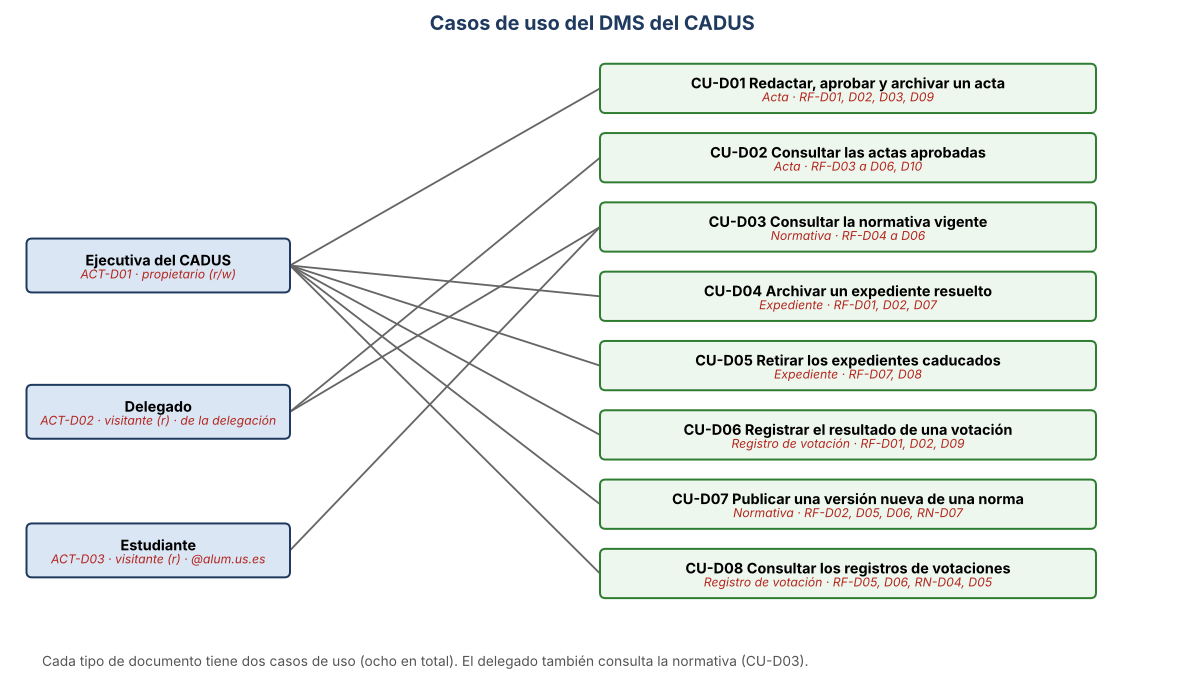
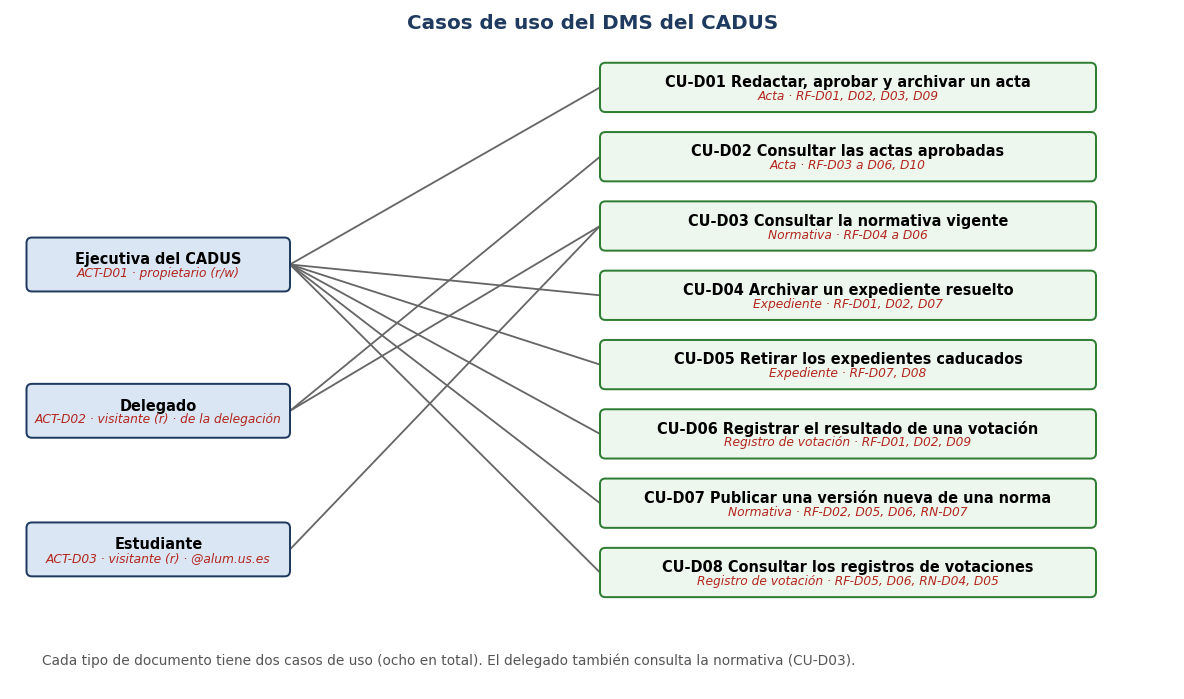
docs(dms): UML de diseño con los estereotipos de la diapositiva 3 del Lab 4 (Site, Folder, Document, Role, Permission y Filter)
El diseño usaba <<Library>> y <<Group>>; ahora cada carpeta tiene su <<Filter>> de metadatos (vista plana), los grupos son
<<Role>> y sus permisos Read/write y Read son <<Permission>>.

diff --git a/scripts/dms/diagramas_dms.py b/scripts/dms/diagramas_dms.py
@@ -38,47 +38,61 @@ def analisis():
 
 
 def diseno():
-    fig, ax = lienzo(1900, 950)
+    """UML de diseño con los estereotipos de la diapositiva 3 del Lab 4: <<Site>>, <<Folder>>, <<Document>>, <<Role>>, <<Permission>>
+    y <<Filter>> (la búsqueda del análisis pasa a ser un filtro de metadatos sobre una vista plana)."""
+    fig, ax = lienzo(1900, 1250)
     ax.text(950, 24, "UML de diseño del DMS en SharePoint — del análisis al diseño", ha="center", fontsize=13, fontweight="bold", color=AZUL)
     # sitios
-    sitios = [(40, "CADUS Documentación pública", "cadus-documentacion-publica · RF-D01"),
-              (700, "CADUS Órganos de gobierno", "cadus-organos-de-gobierno · RF-D01"),
-              (1440, "CADUS Atención al estudiante", "cadus-atencion-al-estudiante · RF-D01 · RN-D02")]
+    sitios = [(40, "Documentación pública", "cadus-documentacion-publica · RF-D01"),
+              (700, "Órganos de gobierno", "cadus-organos-de-gobierno · RF-D01"),
+              (1440, "Atención al estudiante", "cadus-atencion-al-estudiante · RF-D01 · RN-D02")]
     anchos = [560, 700, 430]
     for (x, n, t), w in zip(sitios, anchos):
         caja(ax, x, 70, w, 70, "<<Site>> " + n, t, fc=AZUL, ec=AZUL, subcolor="#ffd2cf", titcolor="white")
-    cols_comunes = ["Tipo de documento (elección)", "Fecha (fecha)", "Curso académico (elección)"]
-    norm = clase(ax, 40, 230, 560, "<<Library>> Normativa", "IR-D03 · CU-D03 · CU-D07 · RF-D05", cols_comunes + ["Norma (texto: identifica la norma)", "Versión (número)", "Estado (vigente|derogada)", "Vista plana «Vigente»: Estado = vigente", "Una versión vigente por norma (RN-D07)"])
-    actas = clase(ax, 700, 230, 330, "<<Library>> Actas", "IR-D02 · CU-D01 · CU-D02 · RF-D03", cols_comunes + ["Asamblea (texto)", "Estado de aprobación (nativo)", "Resumen (generado, deseable)", "Vista plana «Aprobadas»", "Aprobación de contenido: activada"])
-    votac = clase(ax, 1070, 230, 330, "<<Library>> Votaciones", "IR-D05 · CU-D06 · CU-D08 · RN-D04 · RN-D05", cols_comunes + ["Asamblea (texto, obligatoria)", "Número de votación (obligatorio)", "Tipo de voto (nominal|secreto)", "Resultado (aprobada|rechazada)", "Plantilla: 27 filas por delegación", "Permisos propios: sin visitantes"])
-    exp = clase(ax, 1440, 230, 430, "<<Library>> Expedientes", "IR-D04 · CU-D04 · CU-D05 · RF-D07 · RF-D08", cols_comunes + ["Código (texto: CAD-… | MED-…)", "Facultad (elección)", "Fecha de resolución (obligatoria)", "Fecha de caducidad (calculada: +2 años)", "Vista plana «Caducados»: caducidad < hoy", "Sin acceso para visitantes"], NARANJA)
-    for (x, _, _), (lib, w) in zip(sitios, ((norm, 0), (actas, 0), (exp, 0))):
-        pass
+    cols_comunes = ["<<Document>> con estas columnas:", "Tipo de documento (elección)", "Fecha (fecha)", "Curso académico (elección)"]
+    norm = clase(ax, 40, 230, 560, "<<Folder>> Normativa", "IR-D03 · CU-D03 · CU-D07 · RF-D05", cols_comunes + ["Norma (texto: identifica la norma)", "Versión (número)", "Estado (vigente|derogada)", "Una versión vigente por norma (RN-D07)"])
+    actas = clase(ax, 700, 230, 330, "<<Folder>> Actas", "IR-D02 · CU-D01 · CU-D02 · RF-D03", cols_comunes + ["Asamblea (texto)", "Estado de aprobación (nativo)", "Resumen (generado, deseable)", "Aprobación de contenido: activada"])
+    votac = clase(ax, 1070, 230, 330, "<<Folder>> Votaciones", "IR-D05 · CU-D06 · CU-D08 · RN-D04 · RN-D05", cols_comunes + ["Asamblea (texto, obligatoria)", "Número de votación (obligatorio)", "Tipo de voto (nominal|secreto)", "Resultado (aprobada|rechazada)", "Plantilla: 27 filas por delegación"])
+    exp = clase(ax, 1440, 230, 430, "<<Folder>> Expedientes", "IR-D04 · CU-D04 · CU-D05 · RF-D07 · RF-D08", cols_comunes + ["Código (texto: CAD-… | MED-…)", "Facultad (elección)", "Fecha de resolución (obligatoria)", "Fecha de caducidad (calculada: +2 años)"], NARANJA)
     ax.plot([320, 320], [140, 230], color="#555", lw=1.3, zorder=1)
     ax.plot([865, 865], [140, 230], color="#555", lw=1.3, zorder=1)
-    ax.plot([1235, 1235], [140, 150], color="#555", lw=1.3, zorder=1)
     ax.plot([1235, 1235], [150, 230], color="#555", lw=1.3, zorder=1)
     ax.plot([865, 1235], [150, 150], color="#555", lw=1.3, zorder=1)
     ax.plot([1655, 1655], [140, 230], color="#555", lw=1.3, zorder=1)
-    # grupos de permisos
-    ax.text(40, 525, "Grupos de permisos de cada sitio (RF-D06) y a quién se asignan", fontsize=11.5, fontweight="bold", color=AZUL)
-    grupos = [("<<Group>> Propietarios", "control total (r/w)", "Cuenta única del CADUS (dcadus@us.es) y Pablo", AZUL),
-              ("<<Group>> Integrantes", "leer y escribir (r/w)", "Equipo del proyecto (4 integrantes), solo con datos de ejemplo", VERDE),
-              ("<<Group>> Visitantes", "solo lectura (r)", "Delegados (cuenta de su delegación) y estudiantes (@alum.us.es)", NARANJA)]
-    for i, (n, nivel, quien, c) in enumerate(grupos):
-        x = 40 + i * 610
-        caja(ax, x, 555, 570, 110, n + " — " + nivel, quien, fc="white", ec=c, subcolor="#333")
-    ax.text(40, 705, "Visitantes por sitio:", fontsize=10, fontweight="bold")
+    # filtros: la búsqueda por metadatos son vistas planas con filtros (diapositivas 2 y 4 del Lab 4)
+    ax.text(40, 545, "Búsqueda por metadatos: vista plana de la carpeta con filtros (tipo de documento y otro metadato)", fontsize=11.5, fontweight="bold", color=AZUL)
+    filtros = [(40, 560, "<<Filter>> Vigente", "Normativa · Estado = Vigente · RF-D05 · UI-D02", norm),
+               (700, 330, "<<Filter>> Aprobadas", "Acta · Aprobación = Aprobado · RF-D05", actas),
+               (1070, 330, "<<Filter>> Asamblea y voto", "Votación · CU-D08", votac),
+               (1440, 430, "<<Filter>> Caducados", "Expediente · Fecha de caducidad < hoy · RF-D08", exp)]
+    for x, w, tit, sub, carpeta in filtros:
+        caja(ax, x, 580, w, 62, tit, sub, fc="#eef7ee", ec=VERDE, subcolor="#333")
+        rel(ax, carpeta, "abj", (x, 580, w, 62), "arr", "", dy=0)
+    ax.text(40, 668, "Búsqueda genérica (RF-D04): la de SharePoint, por nombre y por contenido del archivo, sobre todo el sitio.", fontsize=9.5, color="#333")
+    # roles y permisos: grupos predefinidos de SharePoint
+    ax.text(40, 715, "Roles y permisos (RF-D06): grupos predefinidos de SharePoint, concedidos sobre el sitio", fontsize=11.5, fontweight="bold", color=AZUL)
+    roles = [("<<Role>> Propietario", "Cuenta única del CADUS (dcadus@us.es) y Pablo", AZUL),
+             ("<<Role>> Integrante", "Equipo del proyecto (4 integrantes), solo con datos de ejemplo", VERDE),
+             ("<<Role>> Visitante", "Delegados (cuenta de su delegación) y estudiantes (@alum.us.es)", NARANJA)]
+    for i, (n, quien, c) in enumerate(roles):
+        caja(ax, 40 + i * 610, 740, 570, 70, n, quien, fc="white", ec=c, subcolor="#333")
+    caja(ax, 160, 880, 700, 64, "<<Permission>> Read/write", "leer y escribir · Propietario e Integrante · sobre el sitio o la carpeta", fc="#fff7ea", ec=NARANJA, subcolor="#333")
+    caja(ax, 1010, 880, 700, 64, "<<Permission>> Read", "solo lectura · Visitante · sobre el sitio (Votaciones y Expedientes con permisos propios: sin visitantes)", fc="#fff7ea", ec=NARANJA, subcolor="#333")
+    ax.plot([325, 510], [810, 880], color="#555", lw=1.3, zorder=1)
+    ax.plot([935, 510], [810, 880], color="#555", lw=1.3, zorder=1)
+    ax.plot([1545, 1360], [810, 880], color="#555", lw=1.3, zorder=1)
+    ax.text(40, 975, "Visitantes por sitio:", fontsize=10, fontweight="bold")
     visit = ["Documentación pública: estudiantes y delegados (lectura de la normativa vigente)",
-             "Órganos de gobierno: delegados (solo actas aprobadas; la biblioteca Votaciones tiene permisos propios y no la ven)",
+             "Órganos de gobierno: delegados (solo actas aprobadas; la carpeta Votaciones tiene permisos propios y no la ven)",
              "Atención al estudiante: nadie (solo la Ejecutiva, RN-D02)"]
     for i, t in enumerate(visit):
-        ax.text(60, 730 + 22 * i, "• " + t, fontsize=9.5)
-    # tabla análisis -> diseño
-    ax.text(40, 830, "Del análisis al diseño", fontsize=11.5, fontweight="bold", color=AZUL)
-    mapa = ["Documento → documento con columnas", "Carpeta → sitio o biblioteca", "Rol → grupo de permisos", "Búsqueda y metadatos → búsqueda + vista plana con filtros", "Permiso → permiso del grupo sobre el sitio o la biblioteca"]
-    ax.text(60, 857, "   ·   ".join(mapa[:3]), fontsize=9.5)
-    ax.text(60, 881, "   ·   ".join(mapa[3:]), fontsize=9.5)
+        ax.text(60, 1000 + 22 * i, "• " + t, fontsize=9.5)
+    # tabla análisis -> diseño (diapositiva 2 del Lab 4)
+    ax.text(40, 1090, "Del análisis al diseño", fontsize=11.5, fontweight="bold", color=AZUL)
+    mapa = ["<<Document>> → <<Document>> (con columnas de metadatos)", "<<Folder>> → <<Site>> / <<Folder>> (los sitios asignan permisos de golpe)", "<<Role>> → <<Role>> (Propietario, Integrante, Visitante)",
+            "<<Search>> → búsqueda genérica + <<Filter>> por metadatos en una vista plana", "Metadato → columna de la carpeta", "<<Permission>> → Read/write o Read sobre el sitio, por grupo"]
+    ax.text(60, 1118, "   ·   ".join(mapa[:3]), fontsize=9.5)
+    ax.text(60, 1142, "   ·   ".join(mapa[3:]), fontsize=9.5)
     guardar(fig, "uml-dms-diseno.png")
 
 
